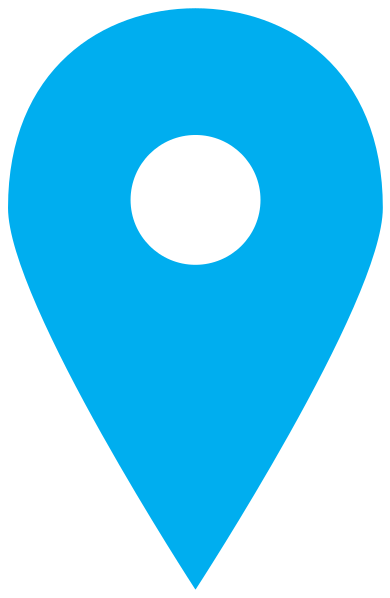
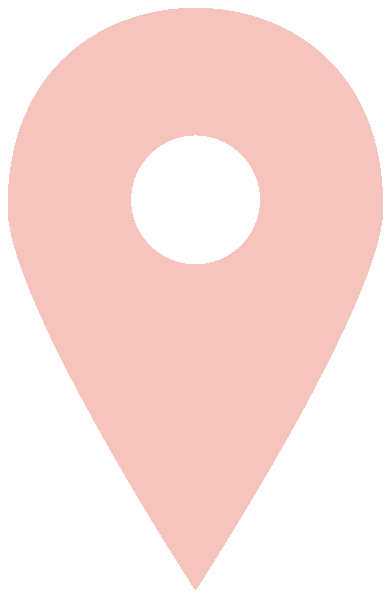
fixing marker color

diff --git a/src/components/Covid19/Marker.js b/src/components/Covid19/Marker.js
@@ -22,7 +22,7 @@ export default function Marker(props) {
                 ) : null
             }
             <button className='absolute text-memory-c2' onClick={(e)=>display(e)} onMouseLeave={()=>hideAuto()}>
-                <img className='puntero' src='https://upload.wikimedia.org/wikipedia/commons/thumb/8/88/Map_marker.svg/1200px-Map_marker.svg.png' title={props.country} alt={props.country}/>
+                <img className='puntero' src={MarkerIMG} title={props.country} alt={props.country}/>
             </button>
         </>
     )
